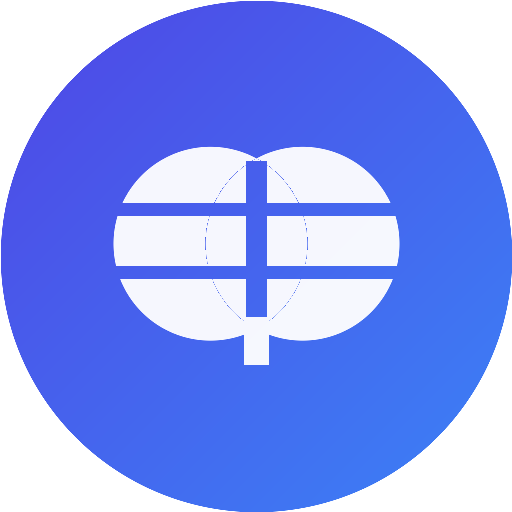
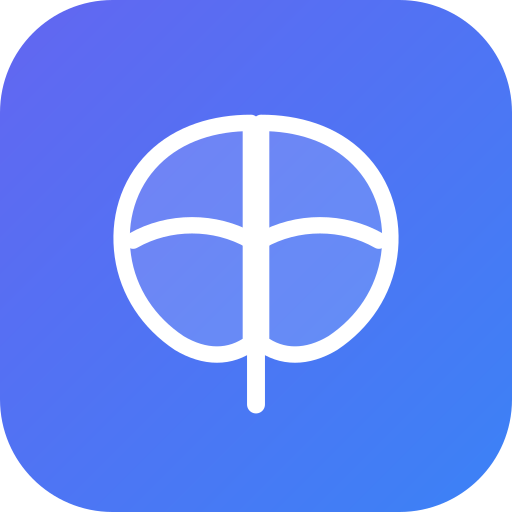
Fix shared deck links redirecting to login and dashboard crash
- Exclude /shared/* paths from auth middleware redirect
- Add null guards for heatmap activity data to prevent format() crash
- Update favicon SVG and regenerated PNG icons

diff --git a/src/app/(app)/dashboard/page.tsx b/src/app/(app)/dashboard/page.tsx
@@ -189,14 +189,17 @@ export default async function DashboardPage() {
   // Build activity map for heatmap
   const activityMap: Record<string, number> = {};
   for (const n of (heatmapNotes as { updated_at: string }[] | null) ?? []) {
+    if (!n.updated_at) continue;
     const d = format(new Date(n.updated_at), "yyyy-MM-dd");
     activityMap[d] = (activityMap[d] ?? 0) + 1;
   }
-  for (const t of (heatmapTodos as { completed_at: string }[] | null) ?? []) {
+  for (const t of (heatmapTodos as { completed_at: string | null }[] | null) ?? []) {
+    if (!t.completed_at) continue;
     const d = format(new Date(t.completed_at), "yyyy-MM-dd");
     activityMap[d] = (activityMap[d] ?? 0) + 1;
   }
   for (const j of (heatmapJournals as { date: string }[] | null) ?? []) {
+    if (!j.date) continue;
     activityMap[j.date] = (activityMap[j.date] ?? 0) + 1;
   }
 

diff --git a/src/lib/supabase/middleware.ts b/src/lib/supabase/middleware.ts
@@ -37,7 +37,8 @@ export async function updateSession(request: NextRequest) {
   if (
     !user &&
     !request.nextUrl.pathname.startsWith("/auth") &&
-    !request.nextUrl.pathname.startsWith("/api/auth")
+    !request.nextUrl.pathname.startsWith("/api/auth") &&
+    !request.nextUrl.pathname.startsWith("/shared")
   ) {
     const url = request.nextUrl.clone();
     url.pathname = "/auth/login";
